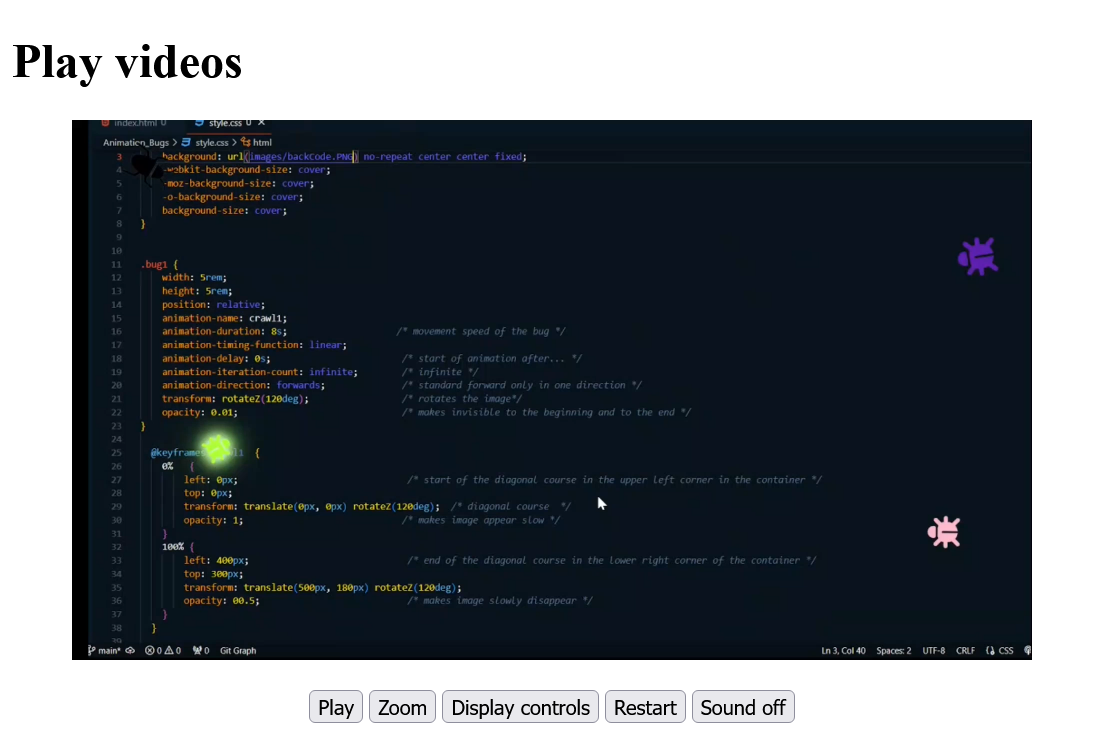
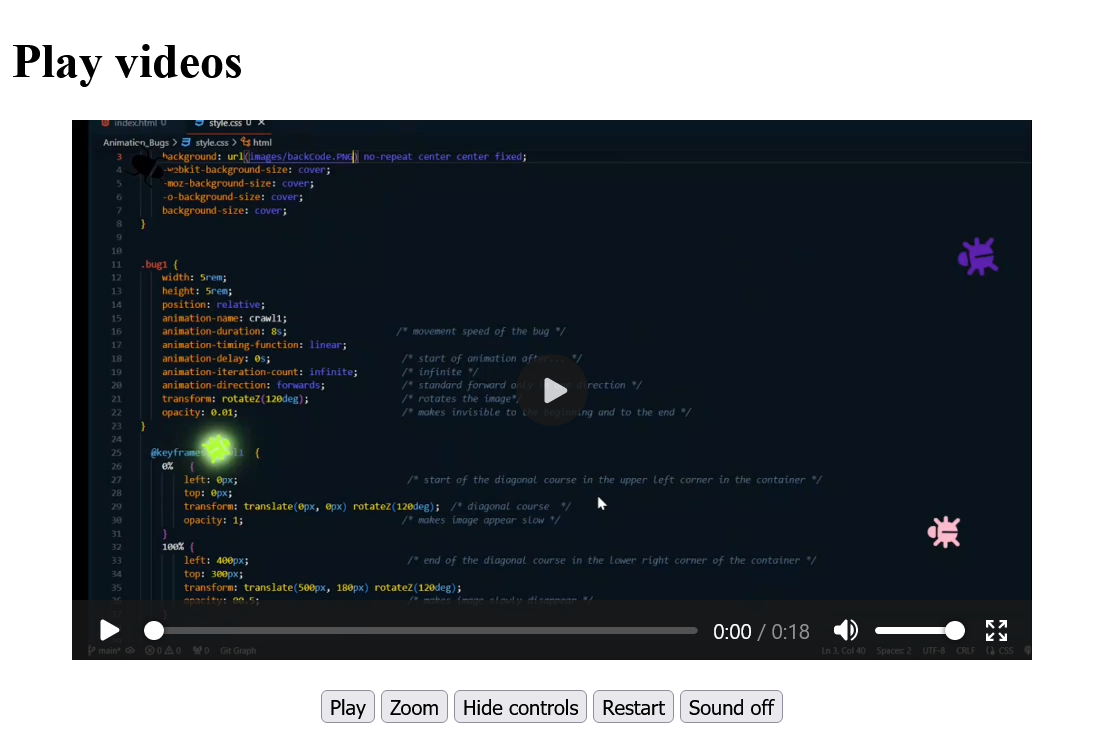
UD 1.1

diff --git a/Examples/Part_1/index.html b/Examples/Part_1/index.html
@@ -19,7 +19,7 @@
             Your web browser does not support video tag.
         </video>
         <p>
-            <button onclick="play_pause()" id="play">Play</button>
+            <button onclick="playVideo()" id="play">Play</button>
             <button onclick="resize()" id="size">Zoom</button>
             <button onclick="control()" id="ctrl">Display controls</button>
             <button onclick="restart()">Restart</button>

diff --git a/Examples/Part_1/script.js b/Examples/Part_1/script.js
@@ -1,6 +1,6 @@
 let vid = document.querySelector('video');
 
-function play_pause() {
+function playVideo() {
     let but = document.querySelector('#play');
     if (vid.paused) {
         vid.play();

diff --git a/README.md b/README.md
@@ -33,7 +33,7 @@ index.html:
             Your web browser does not support video tag.
         </video>
         <p>
-            <button onclick="play_pause()" id="play">Play</button>
+            <button onclick="playVideo()" id="play">Play</button>
             <button onclick="resize()" id="size">Zoom</button>
             <button onclick="control()" id="ctrl">Display controls</button>
             <button onclick="restart()">Restart</button>
@@ -46,7 +46,7 @@ script.js:
    ```
     let vid = document.querySelector('video');
 
-    function play_pause() {
+    function playVideo() {
       let but = document.querySelector('#play');
       if (vid.paused) {
         vid.play();
@@ -56,8 +56,13 @@ script.js:
         but.textContent = "Play";
       }
     }
+    ...
    ```
 
 Output:
 
  <img src="Images/WebAPI_Part-1.png" width="600">
+
+In this example, some methods and properties of the JavaScript Media API are used for the `video` element. The `play()` and `pause()` methods start and pause the video respectively. The `playVideo()` function first checks whether the `paused` property is `true` or not. According to the evaluation the video is started or stopped and the label on the button changes accordingly.
+With the property `width` the size of the video, in the function `resize()`, is changed. Also the fade in and fade out of the controls can be enabled or disabled at any time using the `controls` property, as seen in the control() function. The `currentTime` property is used to set the position of the video to a specific time in seconds. Here it has been set to `0`, which causes the video to play from the beginning.
+The `muted` property controls the sound. With `false` the sound is switched off with `true` switched on. A volume control can be realized with the `volume` property, the values from `0.0` to `1.0` represent the respective volume.
